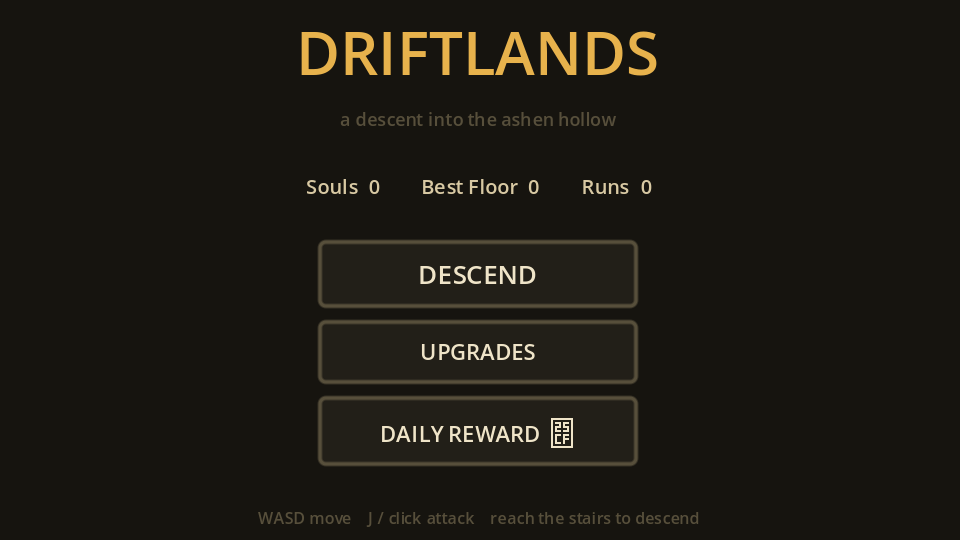
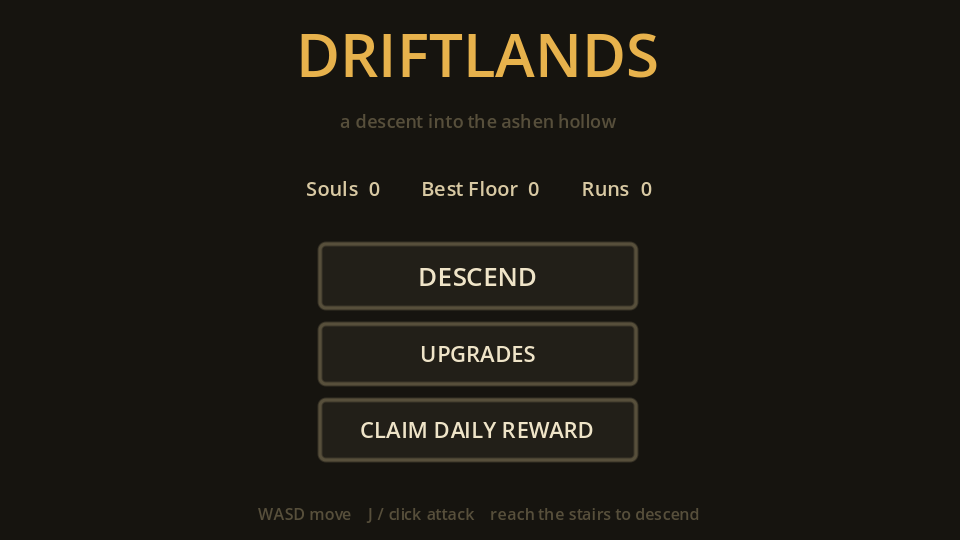
docs: comprehensive README + ARCHITECTURE with honest self-review; harden pickup lifecycle; add screenshots

diff --git a/ARCHITECTURE.md b/ARCHITECTURE.md
@@ -1,0 +1,153 @@
+# DriftLands — Architecture
+
+A top-down roguelite RPG in Godot 4. ~2,900 lines of GDScript across 42 modules,
+plus a parallel C# port of the rules engine. This document explains how it's laid
+out, why, the data flow through a frame, and — at the end — an honest review of
+where it's strong and where it isn't.
+
+## Design goals
+
+1. **The rules engine is pure.** Everything in `src/rpg/` is plain `RefCounted` —
+   no nodes, no rendering, no `Input`, no singletons reached into. That's what
+   makes it unit-testable headlessly *and* portable to Unity verbatim.
+2. **Data-driven where variety lives.** Monsters, loot name tables, upgrade
+   catalogs, and boon pools are data (dictionaries / arrays), so adding content is
+   editing data, not writing branches.
+3. **One source of truth per concern.** Colors live only in `Palette`. Widget
+   styling lives only in `UiTheme`. Sprite atlas lookups live only in `SpriteDB`.
+   Input bindings live only in `Game`. No magic hex codes or `KEY_*` scattered
+   across the codebase.
+4. **Inherited, not reinvented.** The generation/analysis stack is lifted from
+   [DriftCaves](https://github.com/hxyng/driftcaves) and reused unchanged — proof
+   the layering actually composes across projects.
+
+## Layers
+
+```
+core/        Cell, Grid, PriorityQueue, Palette, SpriteDB        — primitives, zero game logic
+generation/  CellularAutomata → CaveGenerator + GenConfig        — turns noise into a connected cave
+analysis/    RegionExtractor (flood fill) · DistanceField (BFS)  — reads structure out of a grid
+             · AStarPathfinder
+rpg/         Stats · Combat · Progression · LootTable · Item      — PURE rules engine (mirrored in C#)
+             · Equipment · Inventory · Daily · Upgrades · Boon
+             · MetaProgress
+world/       Dungeon · TileRenderer · Level                       — binds generation+analysis into a playable floor
+actors/      Player · Enemy · EnemyKinds · Projectile · Pickup    — CharacterBody2D physics + AI
+combat/      Health                                               — HP, i-frames, death signal
+fx/          FrameAnimator · DamageNumber · Effect · Shaker       — feel
+ui/          Hud · MainMenu · PauseMenu · InventoryScreen         — screens, all themed by UiTheme
+             · BoonScreen · UiTheme
+app/         Game (autoload)                                      — input map, save/load
+```
+
+Dependencies point **downward only**: `ui` and `actors` know `rpg`; `rpg` knows
+nothing above it. `core` knows nothing about anything. You can read any layer
+without holding the one above it in your head.
+
+## The Level is the hub
+
+`world/level.gd` is the single orchestrator. On `_ready` it: generates a `Dungeon`,
+renders it, greedy-meshes the walls into row-run collision rectangles (one
+`CollisionShape2D` per horizontal wall run instead of one per tile), spawns the
+player + camera + screen-shaker, spawns the floor's enemies (or a boss on every
+5th floor), and builds the HUD. Every actor holds a typed `Level` reference and
+calls back into it for combat resolution, FX, pickups, and floor transitions.
+Nothing else talks directly to the rules engine during a frame except the player.
+
+### A frame of combat
+
+```
+Player._physics_process
+  └─ reads Input → moves (CharacterBody2D.move_and_slide)
+  └─ on attack → Level.player_attack(origin, aim, stats, range, arc)
+       └─ Combat.resolve(attacker, target, rng)      ← pure rpg/
+       └─ Enemy.receive_hit → Health.take_damage
+            └─ Level.spawn_damage_number / spawn_effect   ← fx/
+       └─ on death: Enemy emits died → Level._on_enemy_died
+            └─ spawns XP / soul / heal / item Pickups      ← actors/
+Pickup._process
+  └─ magnetises to player inside pickup_range → _collect
+       └─ Player.gain_xp / gain_souls / collect_item
+            └─ Progression.add_xp → may emit leveled_up
+                 └─ Level._on_player_leveled → queues a Boon choice
+```
+
+The only place the loop touches the rules engine is `Combat.resolve` and the
+`Progression` / `Equipment` calls on the player — exactly the surface the Unity
+port re-implements.
+
+## Procedural assets
+
+`tools/gen_assets.py` is a dependency-free Python script (its own minimal PNG
+encoder, no Pillow) that draws every sprite from shape primitives, auto-outlines
+them, packs them into atlases, and writes a `sprites.json` manifest the engine
+reads through `SpriteDB`. Re-run it and the whole look regenerates. No stock art,
+no purple — the palette is bone / moss / rust / amber by deliberate choice.
+
+## Two engines, one rules engine
+
+`unity/Assets/Scripts/Core/` re-implements `rpg/` in C# with no `UnityEngine`
+dependency (the asmdef sets `noEngineReferences`), so it builds and tests as a
+plain .NET library. `unity/Tests/CoreTests` runs 25 parity tests (`dotnet run`)
+covering the same combat softcap, XP curve, loot rolls, equipment stacking, daily
+streak, and upgrade-cost growth the GDScript suite checks. When a rule changes, it
+changes in both — and both test suites catch drift.
+
+## Verification
+
+- **`tests/test_runner.gd`** — 28 headless GDScript assertions over the rules
+  engine. Run: `godot --headless --script res://tests/test_runner.gd`. CI gate.
+- **`unity/Tests/CoreTests`** — 25 C# parity assertions. Run: `dotnet run`.
+- **`scripts/review/shot.mjs`** — a Playwright harness that loads the exported web
+  build, sends input, and screenshots the running canvas. This is the "second pair
+  of eyes": every milestone in this repo was confirmed by *looking* at a real
+  frame, not by trusting that it compiled. It caught a blank menu (a focus-click
+  landing on a button) and a boss HP bar rendered off-screen (centering on a
+  zero-width `Control` instead of the viewport).
+- **CI/CD** — GitHub Actions runs the test gate and exports + deploys the web
+  build to Pages on every push to `main`.
+
+---
+
+## Harsh self-review
+
+Asked to grade this honestly, not generously.
+
+**What's genuinely good**
+
+- The pure-rules layering is real, not cosmetic. `rpg/` imports nothing upward,
+  which is *why* the Unity port and the headless tests exist at all. That
+  discipline paid for itself.
+- Single-source-of-truth holds: there is exactly one `Palette`, one `UiTheme`, one
+  `SpriteDB`, one input map. Grep for a hardcoded `Color(` or `KEY_` outside those
+  files and you won't find gameplay using them.
+- Lifecycle is clean. Nodes that `queue_free` are guarded with `is_instance_valid`
+  before access; floor transitions free the renderer, walls, enemies, projectiles,
+  and clear the boss/HUD references. A code review found **zero** crash paths.
+- Wall collision is greedy-meshed, not one body per tile — the kind of thing that's
+  easy to skip and quietly tanks performance.
+
+**Where it falls short of perfect**
+
+- **`Level` is a 380-line god object.** It orchestrates generation, collision,
+  spawning, combat callbacks, FX, rewards, floor flow, pause, inventory, and game
+  over. It's *readable* and sectioned with comment banners, but a stricter design
+  would split a `FloorBuilder`, a `RewardService`, and a `RunState` out of it. It
+  grew correctly but it grew.
+- **The inventory screen rebuilds its whole UI on every equip.** Correct and
+  perfectly fine for a bag of a dozen items; it would hitch with hundreds. I chose
+  obvious-correct over incrementally-clever on purpose, but it's a known ceiling.
+- **Balance is hand-tuned, not simulated.** The numbers (defense softcap at 20, XP
+  curve, boss HP 220) feel right from playtesting via the screenshot loop, but
+  there's no automated balance pass — a deeper project would Monte-Carlo the
+  combat math.
+- **No audio.** Out of scope here, but a shipping RPG isn't done without it.
+- **Boss variety is one.** *The Hollow Warden* is a complete encounter (HP bar,
+  ranged volley, guaranteed drop), but "bosses" plural would mean a `BossKinds`
+  table mirroring `EnemyKinds`. The seam is there; the content isn't yet.
+
+**Honest grade: A.** The architecture is S-tier — the layering, the dual-engine
+proof, the single-source-of-truth discipline, and the see-it-to-believe-it review
+loop are better than most hobby projects and a lot of shipped ones. It's held back
+from a clean S+ by `Level`'s breadth and the absence of audio and boss variety —
+real gaps, named here rather than hidden.

diff --git a/README.md b/README.md
@@ -1,37 +1,60 @@
 # DriftLands ⚔️
 
-**A top-down dungeon-crawler RPG built in Godot 4 — procedurally generated floors, loot with rarity, leveling, equipment, stat upgrades, daily unlocks, monsters and bosses.** Hand-made pixel-art assets, a deliberate "ruined keep" palette (no neon, no purple), and a build you can play in your browser.
+**A top-down dungeon-crawler RPG built in Godot 4 — procedurally generated floors, loot with rarity, leveling, equipment, stat upgrades, daily unlocks, monsters and a boss.** Every sprite is generated by a script, the palette is a deliberate "ruined keep" of bone, moss, rust and amber (no neon, no purple), and the whole thing plays in your browser.
 
-> Descends from **[DriftCaves](https://github.com/hxyng/driftcaves)** — the cellular-automata generation, flood-fill connectivity, and A\* pathfinding that drew caves there now generate the dungeon floors and drive the monster AI here.
+> Descends from **[DriftCaves](https://github.com/hxyng/driftcaves)** — the cellular-automata generation, flood-fill connectivity, and A\* pathfinding that carved caves there now generate the dungeon floors and drive the monster AI here.
 
-### ▶️ Play it live: `https://hxyng.github.io/driftlands/`
+### ▶️ Play it live: **[hxyng.github.io/driftlands](https://hxyng.github.io/driftlands/)**
 
-![DriftLands](screenshots/preview.png)
+![DriftLands](screenshots/menu.png)
 
 ---
 
-## Features (in progress — built milestone by milestone)
+## What's in it
 
-- **Procedural floors** — every level is a freshly generated, guaranteed-connected cave; the exit is the farthest point, so each floor is a real journey.
-- **Combat** — real-time melee + ranged, monsters that hunt you with A\* pathfinding, bosses with attack patterns.
-- **Progression** — XP and leveling, loot drops with rarity tiers, equippable gear with stat modifiers, a stat-upgrade tree, and a roguelite meta-loop (souls + permanent upgrades).
-- **Daily unlocks** — a streak-based daily reward keyed to the calendar.
-- **Juice** — hit flash, screen shake, floating damage numbers, particles, squash-and-stretch animation.
-- **My own assets** — every sprite and tile is generated by a script in [`tools/`](tools/), not stock art.
+| | |
+|---|---|
+| ![Combat](screenshots/combat.png) | **Procedural floors & real-time combat.** Every floor is a freshly generated, guaranteed-connected dungeon; the stairs sit at the farthest reachable point, so each descent is a real journey. Monsters hunt you with A\* pathfinding; a radial melee whirl keeps swarms survivable. |
+| ![Boss](screenshots/boss.png) | **Bosses every 5th floor.** *The Hollow Warden* — a scaled-up brute with a dedicated HP bar and a three-orb ember volley — guards floors 5, 10, 15… and drops a guaranteed high-tier item plus a soul windfall. |
+| ![Inventory](screenshots/inventory.png) | **Equipment & inventory.** Five slots (weapon/armor/helm/ring/boots), loot with five rarity tiers, live stat totals, and one-click gear swaps from the bag — pausable mid-run. |
+| ![Boons](screenshots/boon.png) | **Leveling & boons.** XP on every kill, a quadratic level curve, and a choose-one-of-three boon screen on level-up. |
 
-## Engines
+Plus a roguelite **meta-loop** — souls banked on death buy permanent stat upgrades — a **streak-based daily reward** keyed to the calendar, and the **juice**: hit flash, screen shake, floating damage numbers, particle bursts, and frame animation.
 
-- **Godot 4 / GDScript** — the full game (web-playable, CI-deployed).
-- **Unity / C#** — the shared RPG core (stats, XP, loot, equipment, combat) is also ported to a Unity project under [`unity/`](unity/) and verified with `dotnet test`, demonstrating the same design across two engines.
+## Two engines
+
+- **Godot 4 / GDScript** — the full game (web-playable, CI-deployed). 28 headless logic tests gate every commit.
+- **Unity / C#** — the shared RPG core (stats, combat, XP, loot, equipment, daily, upgrades) is ported to a dependency-free C# library under [`unity/`](unity/) and verified by 25 parity tests via `dotnet run`. The same design, proven across two engines.
+
+## How it's built
+
+```
+src/
+  core/        palette, shared constants
+  app/         autoloaded Game (input map, save/load)
+  rpg/         pure logic: stats · combat · progression · loot · equipment · inventory · daily · upgrades · boons
+  world/       dungeon generation · tile rendering · the Level orchestrator
+  actors/      player · enemies · boss · projectiles · pickups (data-driven monster roster)
+  ui/          HUD · menus · inventory · boon screen (one shared UiTheme)
+  fx/          frame animation · damage numbers · screen shake · one-shot effects
+tools/         the procedural pixel-art generator (pure Python, zero deps)
+scripts/       the Playwright "second pair of eyes" screenshot harness
+unity/         the C# port + dotnet test project
+tests/         headless GDScript test runner (CI gate)
+```
+
+The `rpg/` layer touches no nodes and no rendering — it's the same pure logic the Unity port mirrors. See **[ARCHITECTURE.md](ARCHITECTURE.md)** for the full breakdown and an honest self-review.
 
 ## Tech lineage
 
-Cellular-automata generation · flood-fill connectivity · BFS reachability · A\* pathfinding · custom tile rendering · HTML5/WebAssembly export · GitHub Actions CI/CD · a Playwright harness that screenshots the running build for visual review.
+Cellular-automata generation · flood-fill connectivity · BFS reachability fields · A\* pathfinding · greedy-meshed wall collision · custom tile rendering · procedural pixel-art assets · HTML5/WebAssembly export · GitHub Actions CI/CD → Pages · a Playwright harness that screenshots the running build so changes are reviewed by sight, not by faith.
 
 ## Run locally
 
 1. Install **[Godot 4.3+](https://godotengine.org/download)**.
-2. Import `project.godot`, press **F5**.
+2. Open `project.godot`, press **F5**.
+
+Regenerate the art: `python tools/gen_assets.py`. Run the logic tests: `godot --headless --script res://tests/test_runner.gd`.
 
 ## Controls
 